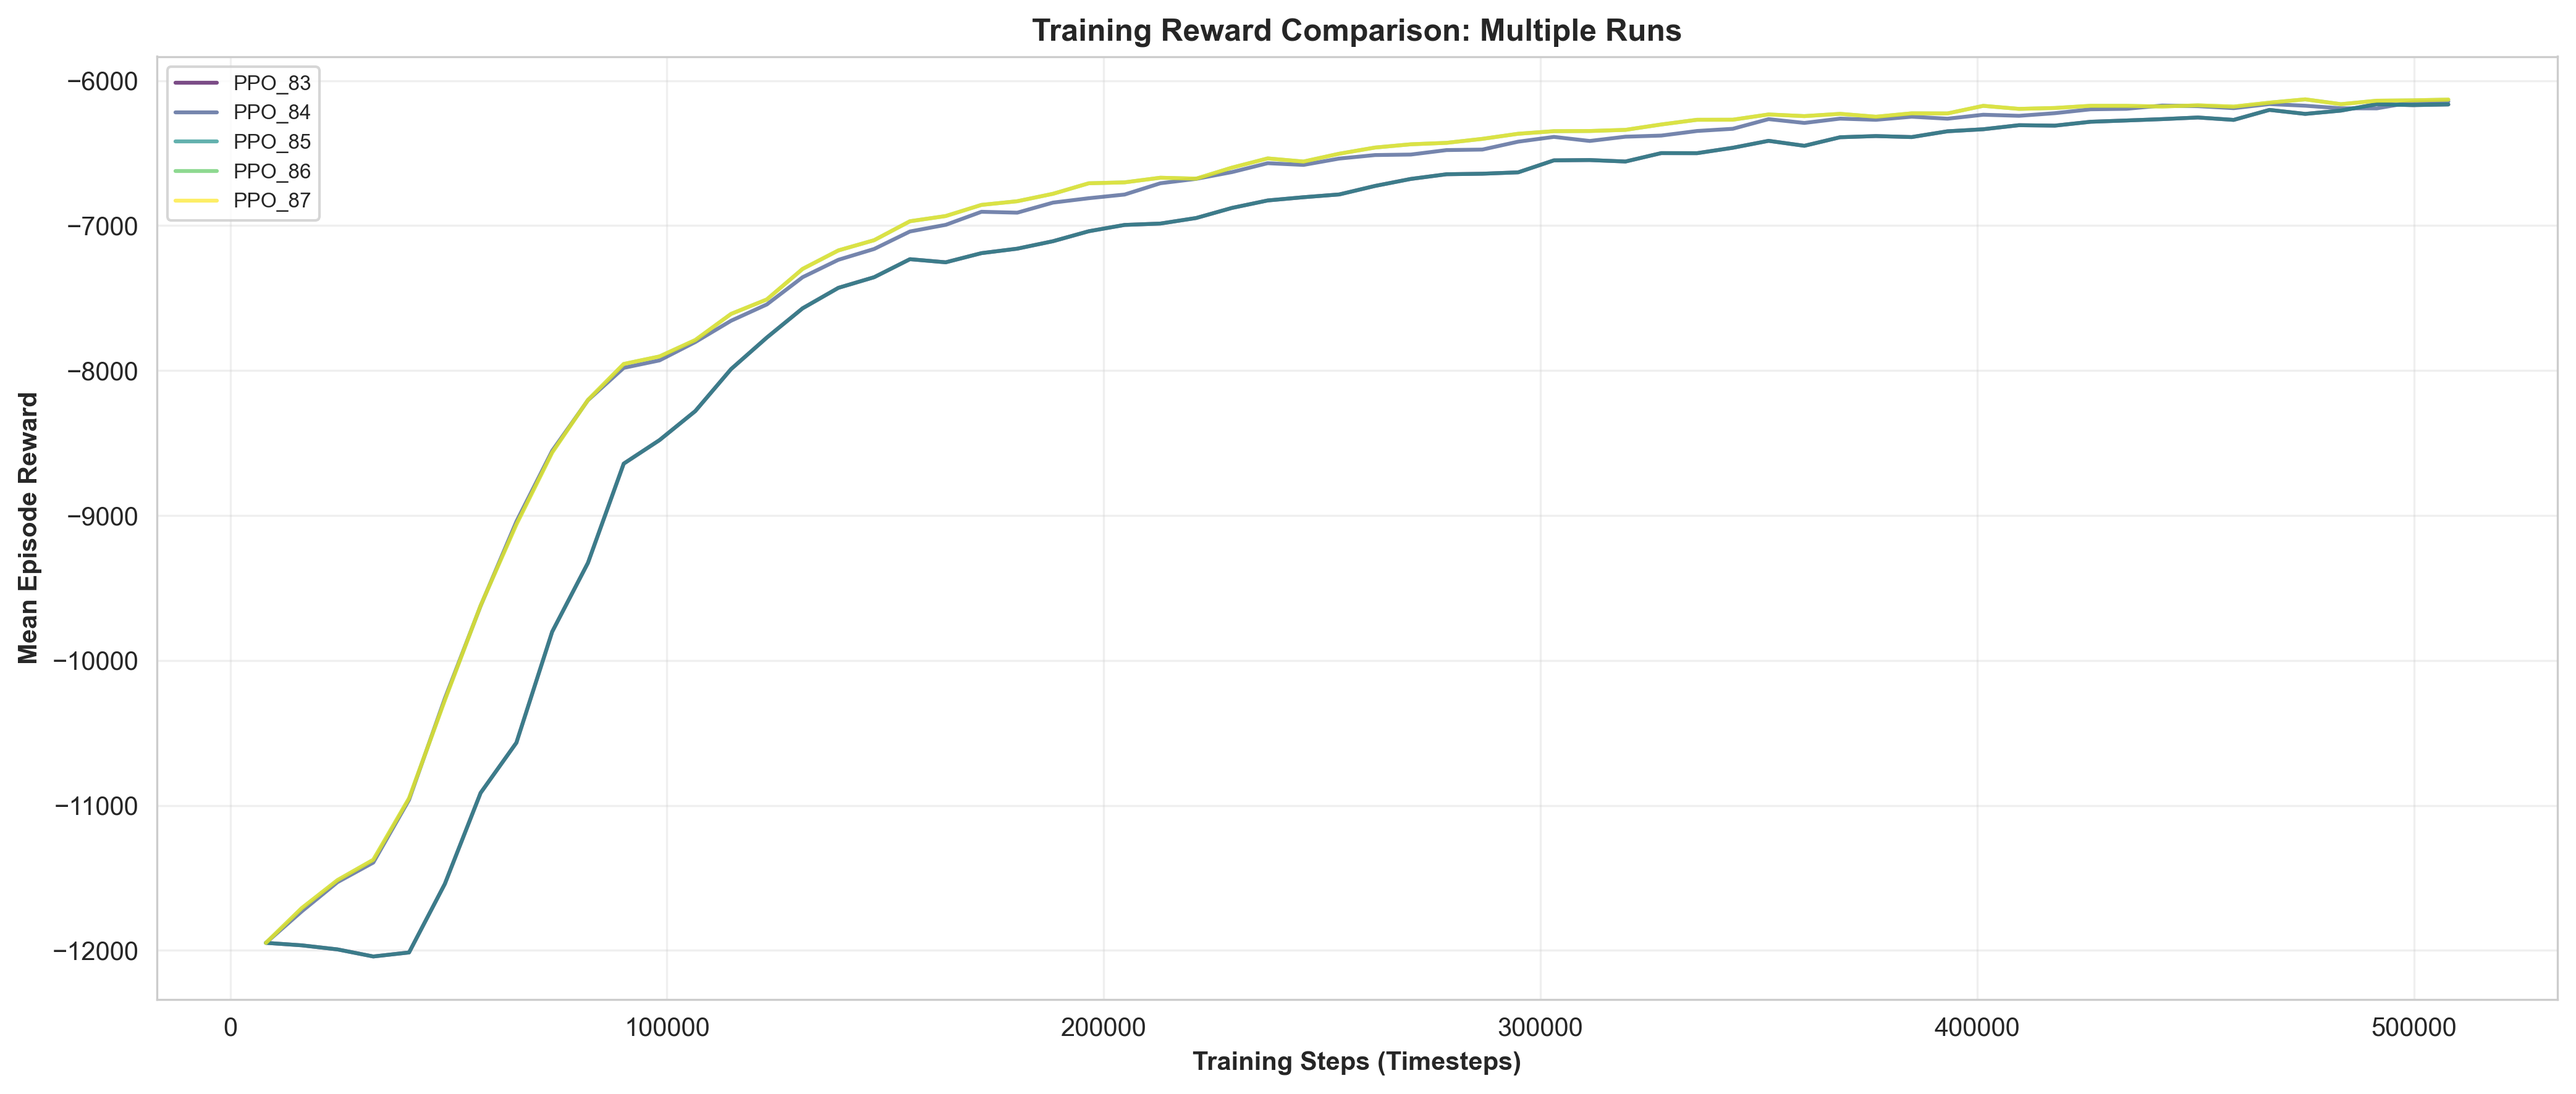
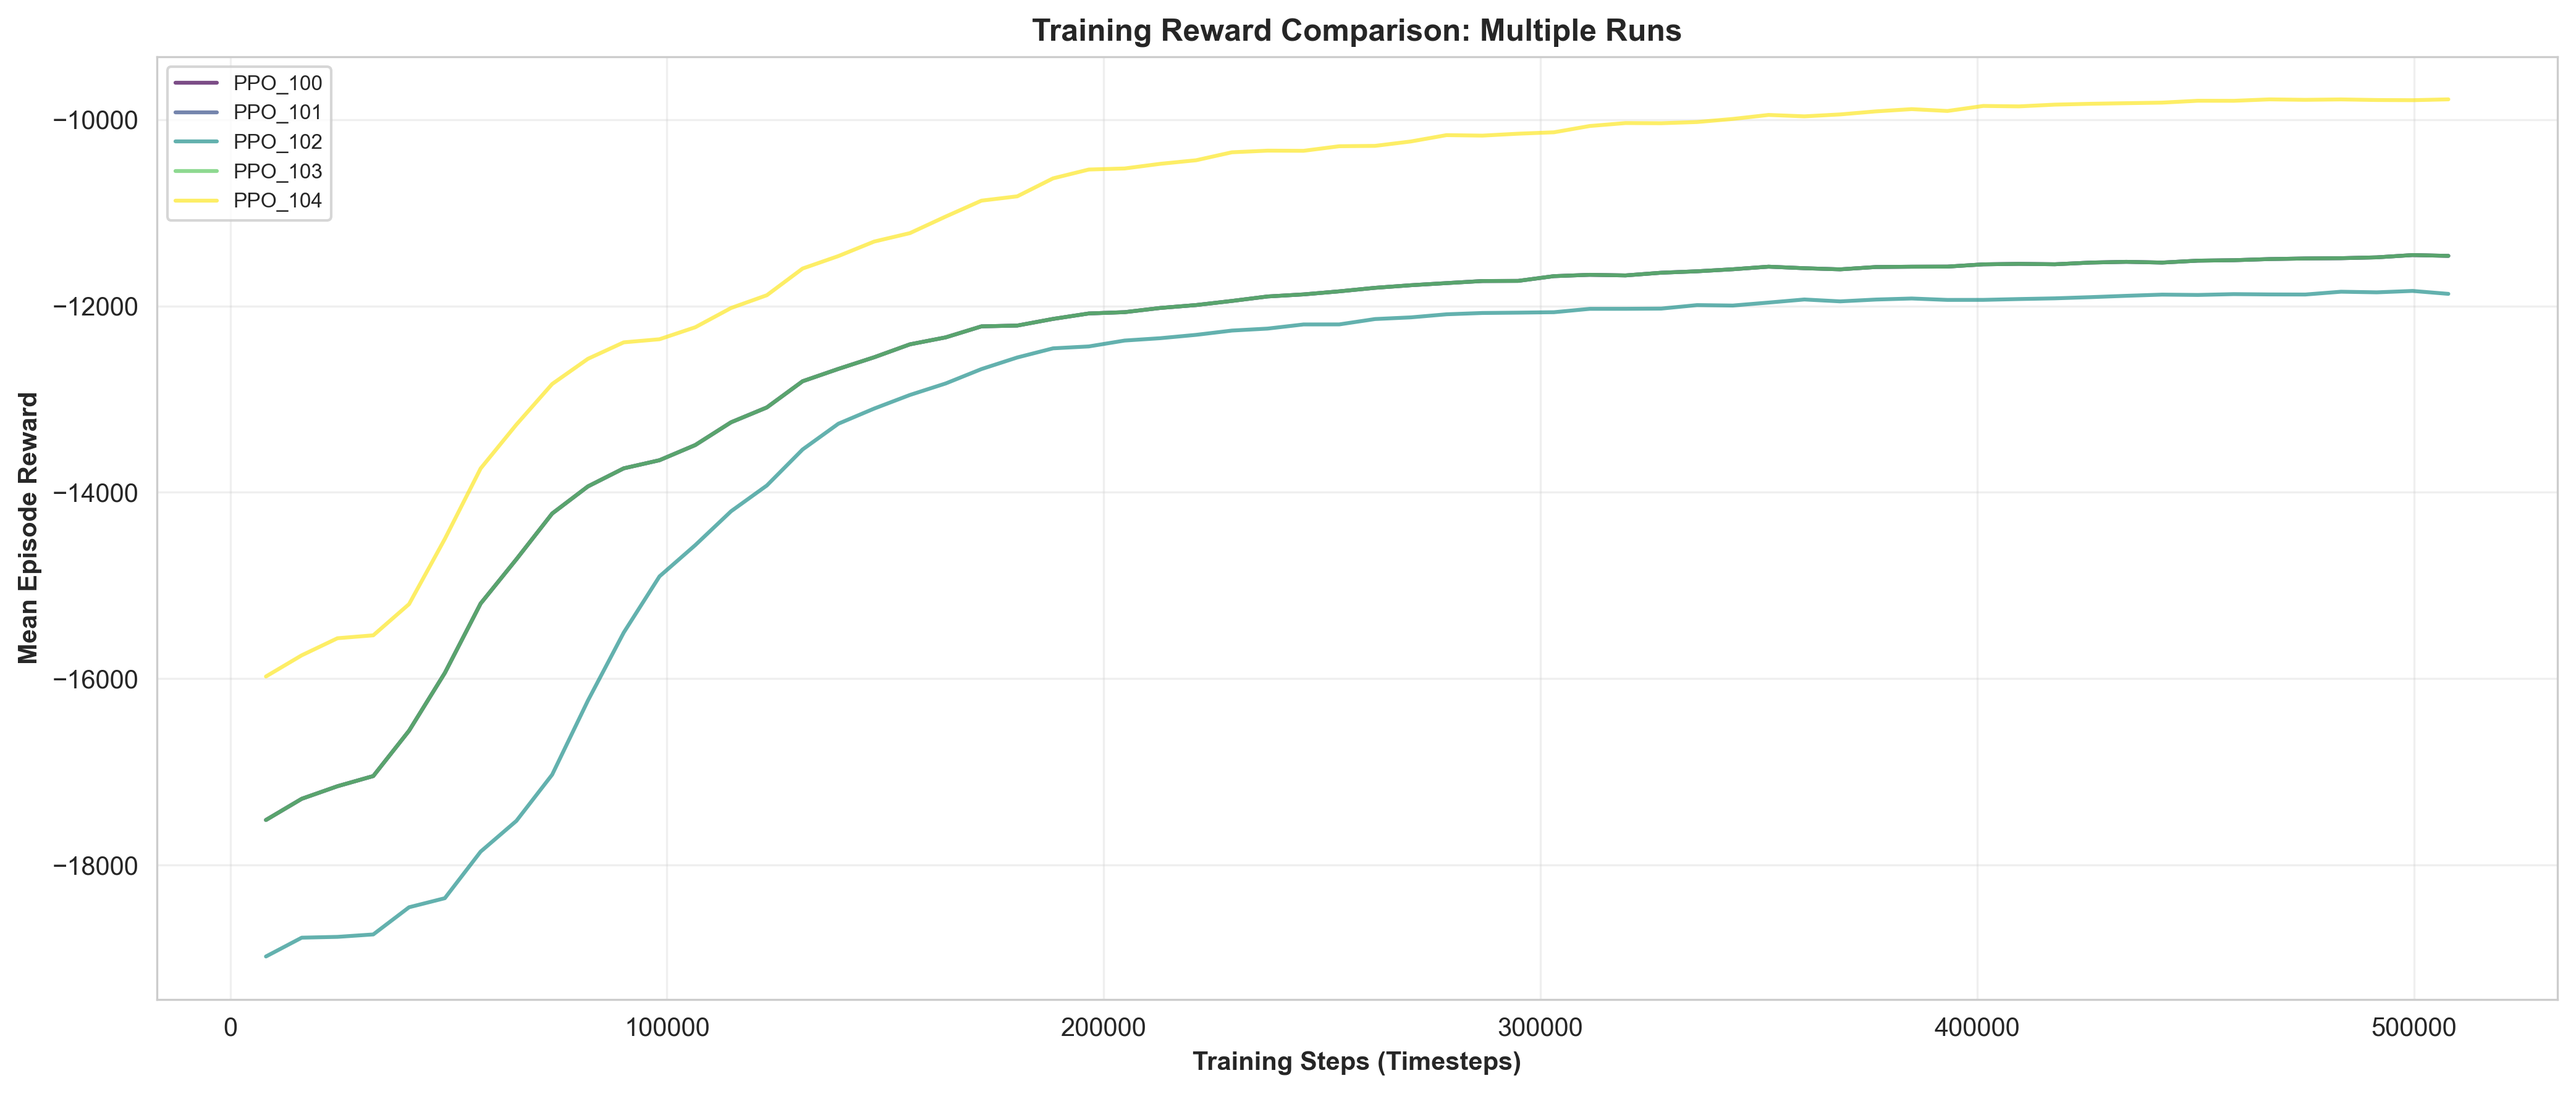
Save plots per-scenario and update defaults

diff --git a/RL_agent/plot_results.py b/RL_agent/plot_results.py
@@ -21,7 +21,7 @@ STATS_PATH = os.path.join(script_dir, "checkpoints", "best_model", "vecnormalize
 OUTPUT_DIR = os.path.join(os.path.dirname(script_dir), "results_plots")  # Where to save plots
 
 steps_to_plot = 96  # One day (15 min intervals)
-SCENARIO_NAME = "cloudy_reduced_solar_21_nodes" # Set to same as train.py (e.g. "heatwave_day") or None for default
+SCENARIO_NAME = "daytime_peak_load_day_21_nodes" # Set to same as train.py (e.g. "heatwave_day") or None for default
  
 # Node configuration
 SOLAR_NODE_INDICES = [3, 5, 7, 10, 11, 13, 15, 17, 18, 19, 20]
@@ -31,6 +31,11 @@ BESS_NODE_INDEX = 21
 
 # Create output directory
 os.makedirs(OUTPUT_DIR, exist_ok=True)
+
+# Create scenario-specific subdirectory
+SCENARIO_FOLDER = os.path.join(OUTPUT_DIR, SCENARIO_NAME) if SCENARIO_NAME else os.path.join(OUTPUT_DIR, "default")
+os.makedirs(SCENARIO_FOLDER, exist_ok=True)
+print(f"[INFO] Saving outputs to scenario folder: {SCENARIO_FOLDER}")
 
 # 1. Load the Environment and Model
 print("[INFO] Loading environment and model...")
@@ -173,7 +178,7 @@ ax2.grid(True, alpha=0.3)
 ax2.set_xticks(np.arange(0, 25, 4))
 
 plt.subplots_adjust(left=0.05, bottom=0.08, right=0.89, top=0.94, hspace=0.22)
-output_file_1a = f"{OUTPUT_DIR}/thesis_result_plot.png"
+output_file_1a = f"{SCENARIO_FOLDER}/thesis_result_plot.png"
 plt.savefig(output_file_1a, dpi=300, bbox_inches='tight')
 print(f"[OK] Saved '{output_file_1a}'")
 
@@ -234,7 +239,7 @@ for ax in axes:
     ax.set_xlim(0, 24)
 
 plt.subplots_adjust(left=0.06, bottom=0.08, right=0.85, top=0.95, hspace=0.3)
-output_file_2 = f"{OUTPUT_DIR}/1_power_economics_detailed.png"
+output_file_2 = f"{SCENARIO_FOLDER}/1_power_economics_detailed.png"
 plt.savefig(output_file_2, dpi=300, bbox_inches='tight')
 print(f"[OK] Saved '{output_file_2}'")
 
@@ -293,7 +298,7 @@ for ax in axes:
     ax.set_xlim(0, 24)
 
 plt.subplots_adjust(left=0.05, bottom=0.08, right=0.85, top=0.94, hspace=0.22)
-output_file_3 = f"{OUTPUT_DIR}/2_voltage_profiles.png"
+output_file_3 = f"{SCENARIO_FOLDER}/2_voltage_profiles.png"
 plt.savefig(output_file_3, dpi=300, bbox_inches='tight')
 print(f"[OK] Saved '{output_file_3}'")
 
@@ -331,7 +336,7 @@ for ax in axes:
     ax.set_xlim(0, 24)
 
 plt.subplots_adjust(left=0.06, bottom=0.08, right=0.97, top=0.95, hspace=0.2)
-output_file_4 = f"{OUTPUT_DIR}/3_rewards.png"
+output_file_4 = f"{SCENARIO_FOLDER}/3_rewards.png"
 plt.savefig(output_file_4, dpi=300, bbox_inches='tight')
 print(f"[OK] Saved '{output_file_4}'")
 
@@ -355,13 +360,13 @@ results_df = pd.DataFrame({
     "Instant_Reward": history["rewards"]
 })
 
-csv_file_path = f"{OUTPUT_DIR}/detailed_simulation_results.csv"
+csv_file_path = f"{SCENARIO_FOLDER}/detailed_simulation_results.csv"
 results_df.to_csv(csv_file_path, index=False)
 print(f"[OK] Saved detailed results to '{csv_file_path}'")
 
 print("\n" + "="*50)
 print("All plots saved successfully!")
-print(f"Output directory: {OUTPUT_DIR}/")
+print(f"Output directory: {SCENARIO_FOLDER}/")
 print("="*50)
 
 plt.show()

diff --git a/RL_agent/setup_scripts/analyze_scenarios.py b/RL_agent/setup_scripts/analyze_scenarios.py
@@ -118,7 +118,7 @@ def main():
             
             plt.title(f'Scenario Analysis: {name}')
             plt.ylabel('Power (kW)')
-            plt.xlabel('Time')
+            plt.xlabel('Time', fontweight='bold')
             plt.legend()
             plt.tight_layout()
             
@@ -150,7 +150,7 @@ def main():
 
     ax2.set_title('Aggregate Solar Profiles (All Scenarios)')
     ax2.set_ylabel('Power (kW)')
-    ax2.set_xlabel('Time')
+    ax2.set_xlabel('Time', fontweight='bold')
     ax2.legend(bbox_to_anchor=(1.02, 1), loc='upper left', fontsize='small', borderaxespad=0.)
     plt.subplots_adjust(top=0.95, bottom=0.07, left=0.07, right=0.83, hspace=0.25)
 

diff --git a/RL_agent/train.py b/RL_agent/train.py
@@ -38,7 +38,7 @@ def main():
 
     # Set to a scenario name (e.g., "heatwave_day") to train on that specific scenario.
     # Set to None to use the default 'load_forecast.csv' and 'solar_forecast_formatted.csv'
-    scenario_name = "cloudy_reduced_solar_21_nodes"  # Use 21-node version for 21-load system
+    scenario_name = "daytime_peak_load_day_21_nodes"  # Use 21-node version for 21-load system
 
 
     
